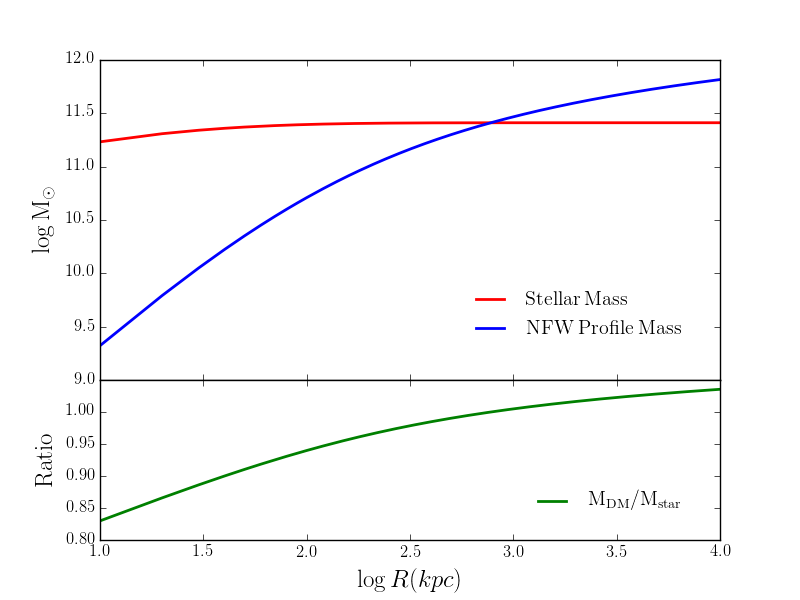
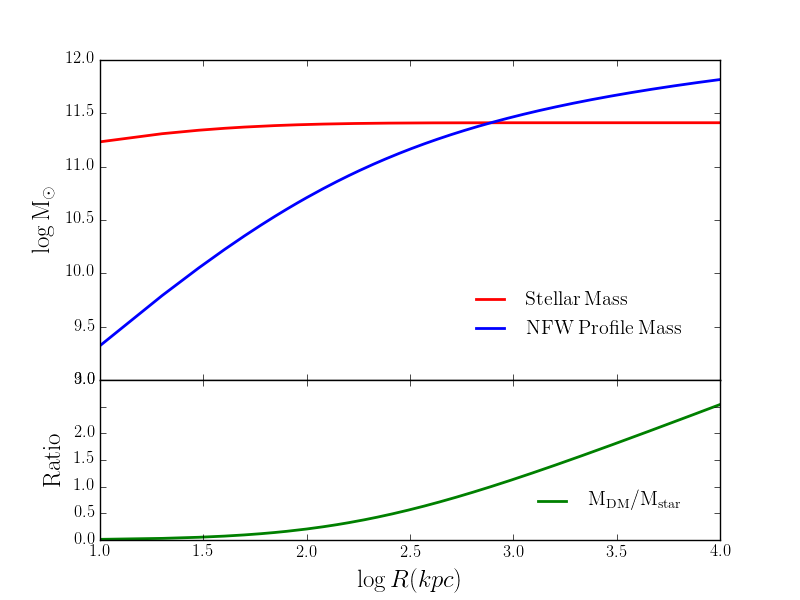
update

diff --git a/plots/DM_fraction.py b/plots/DM_fraction.py
@@ -48,7 +48,7 @@ def N(val):
 for i in range(len(R)):
    f_array.append(np.log10(F(R[i])))
    n_array.append(np.log10(N(R[i])))
-   fractionDM.append( n_array[i]/f_array[i] )  
+   fractionDM.append( (10**(n_array[i])/10**(f_array[i])) )  
 
 fig = plt.figure()
 gs = gridspec.GridSpec(2, 1, height_ratios=[2, 1]) 
@@ -64,7 +64,7 @@ plt.legend(frameon=False,bbox_to_anchor=(0.95, 0.3), loc=1, borderaxespad=0.)
 #the second subplot
 # shared axis X
 ax1 = plt.subplot(gs[1], sharex = ax0)
-line1, = ax1.plot(np.log10(R), fractionDM, '-', c = 'g', label = r'$\mathrm{M_{DM}/M_{star}}$', lw = 2)
+line1, = ax1.plot(np.log10(R), (fractionDM), '-', c = 'g', label = r'$\mathrm{M_{DM}/M_{star}}$', lw = 2)
 plt.xlabel(r'$\log R(kpc)$',fontsize=18)
 plt.ylabel(r'$\mathrm{Ratio}$',fontsize=18)
 plt.legend(frameon=False,bbox_to_anchor=(0.95, 0.35), loc=1, borderaxespad=0.)

diff --git a/cosmos/select_z_bins.c b/cosmos/select_z_bins.c
@@ -24,12 +24,12 @@ int main (void)
   for(i=0; i<N; i++)
     {  
       fscanf(data, "%lf\t %lf\t %lf\t %lf\t %lf\n", &alpha[i], &delta[i], &n[i], &mu[i], &z[i]);    
-      dis[i] = (sqrt(pow((alpha[i]-AR_c),2) + pow((delta[i]-DEC_c),2))); 
+      //dis[i] = (sqrt(pow((alpha[i]-AR_c),2) + pow((delta[i]-DEC_c),2))); 
       //printf("%lf\n",dis[i]);
-      if (24.0 > mu[i])
+      if (23.0 > mu[i])
 	{
-	  if (dis[i] < radius)
-	    { 
+	  //if (dis[i] < radius)
+	    //{ 
 	      if ( z1 < z[i] && z[i] < z2 ) 
 		b1++;
 	      if ( z2 < z[i] && z[i] < z3 )
@@ -42,7 +42,7 @@ int main (void)
 		b5++;
 		  if ( z6 < z[i] && z[i] < z7 )
 		b6++;
-	    }
+	    //}
 	}
     }
   

diff --git a/Chapters/Chapter1.tex b/Chapters/Chapter1.tex
@@ -44,6 +44,8 @@ Modelling the lensing configuration provides the total projection mass within an
 
 strong lensing at different radii is useful.
 
+The not so direct connection between the NFW profile of gravitational lensing, the constraints we put on the stelllar poplations if we want to measure background galaxies, 
+
 if I got to certain radius I will have more dark matter, because light drops quickly. 
 
 basically find how much dark matter and hoy many stars are there in the profile
